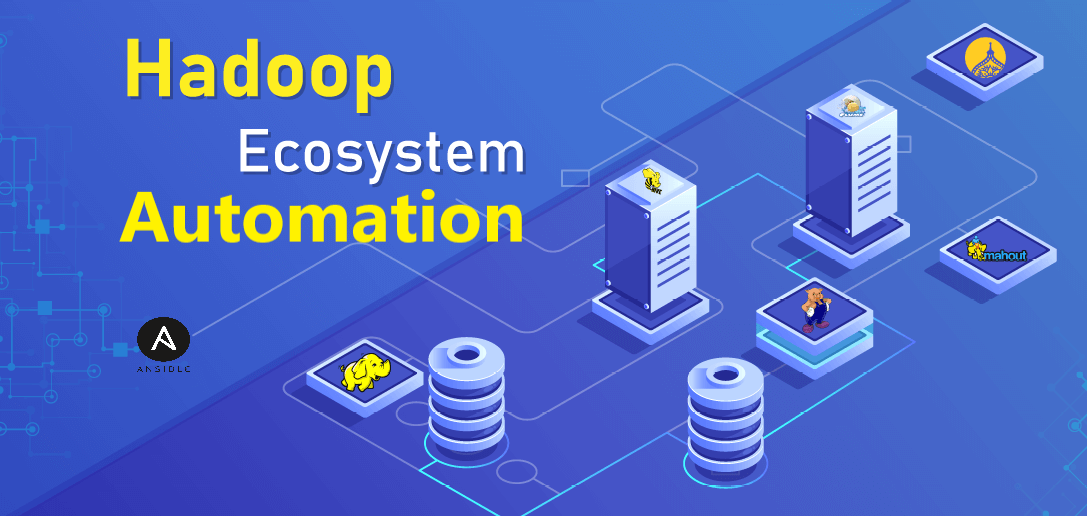
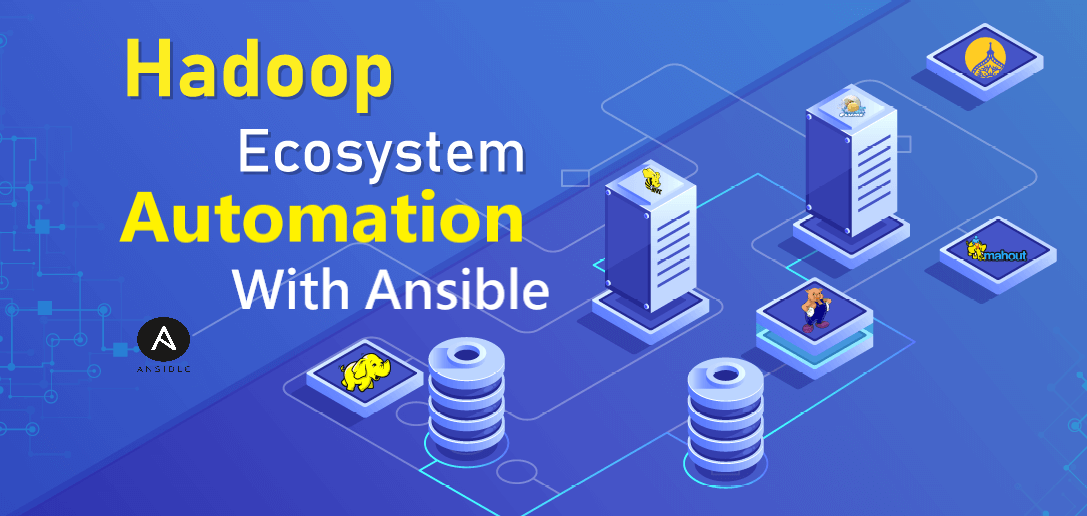
added hadoop and terraform projects

Changed region(s): [[0.2125, 0.4961, 0.5161, 0.6202]]

diff --git a/index-w.html b/index-w.html
@@ -99,7 +99,8 @@
       title="yellow"
     />
   </head>
-  <body class="white-vertion black-bg">
+  <!-- <body class="dark-vertion black-bg"> -->
+  <body class="white-vertion black-bg"></body>
     <!-- Start Loader -->
     <div class="section-loader">
       <div class="loader">
@@ -1303,11 +1304,11 @@
                     <img src="assets/images/projects/Frlnc/Frlnc_Hadoop_Automation.png" alt="HadoopAutomation" />
                     <figcaption class="fig-caption">
                       <i class="fa fa-search"></i>
-                      <h5 class="title">Hadoop Automation</h5>
+                      <h5 class="title">Hadoop Automation With Anisble</h5>
                       <span class="sub-title">Installation and Configuration</span>
                       <a
                         data-fancybox
-                        data-src="#mh"
+                        data-src="#mh_hadoopansible"
                       ></a>
                     </figcaption>
                   </figure>
@@ -1396,6 +1397,20 @@
                     </figcaption>
                   </figure>
                 </div>
+                <div class="grid-item col-md-4 col-sm-6 col-xs-12 infra_tag">
+                  <figure>
+                    <img src="assets/images/projects/IaC/TC_TerraformAWS_Front.jpg" alt="Terraform" />
+                    <figcaption class="fig-caption">
+                      <i class="fa fa-search"></i>
+                      <h5 class="title">Automate Infra Provisioning</h5>
+                      <span class="sub-title">AWS Cloud</span>
+                      <a
+                        data-fancybox
+                        data-src="#mh_awsterraform"
+                      ></a>
+                    </figcaption>
+                  </figure>
+                </div>
               </div>
               <!-- End: .grid .project-gallery -->
             </div>
@@ -1405,28 +1420,132 @@
         </div>
         <!-- End: .row -->
       </div>
-      <!-- Default content -->
-      <div class="mh-portfolio-modal" id="mh">
+      <!-- Hadoop Ansible content -->
+      <div class="mh-portfolio-modal" id="mh_hadoopansible">
         <div class="container">
           <div class="row mh-portfolio-modal-inner">
             <div class="col-sm-5">
-              <h2>Uploading Soon...</h2>
-              <div class="mh-about-tag">
-                <ul>
-                  <li><span>Ansible</span></li>
-                  <li><span>Zookeeper</span></li>
-                  <li><span>HDFS</span></li>
-                  <li><span>Hive</span></li>
-                  <li><span>MapReduce</span></li>
-                  <li><span>Apache Pig</span></li>
-                  <li><span>Yarn</span></li>
-                  <li><span>Spark</span></li>
-                </ul>
-              </div>
+              <h2>Automating Hadoop Installation and Configuration with Ansible</h2>
+              <h6 style="color: red;">
+                Problem Statement
+              </h6>
+              <p>
+                The manual installation and configuration of Hadoop across multiple nodes is a time-consuming and error-prone process. It involves numerous steps, dependencies, and configurations that can lead to inconsistencies and potential security vulnerabilities.
+              </p>
+              <p>
+                Additionally, managing the installation across various environments and clusters poses a significant challenge for the data engineering team.
+              </p>
+              
+              <h6 style="color: #0bceaf;">
+                Results
+              </h6>
+              <p>
+                > Improved Efficiency&emsp;> Scalability<br>
+                > Consistency and Standardization<br>
+                > Enhanced Security<br>
+                > Faster Troubleshooting and Maintenance
+              </p>
             </div>
+            <div class="col-sm-7">
+              <div class="mh-portfolio-modal-img">
+                <h6 style="color: #0bceaf;">Tech </h6>
+                <div class="mh-about-tag">
+                  <ul>
+                    <li><span>Ansible</span></li>
+                    <li><span>Zookeeper</span></li>
+                    <li><span>HDFS</span></li>
+                    <li><span>Hive</span></li>
+                    <li><span>MapReduce</span></li>
+                    <li><span>Apache Pig</span></li>
+                    <li><span>Yarn</span></li>
+                    <li><span>Spark</span></li>
+                    <li><span>Java</span></li>
+                    <li><span>Linux/Unix</span></li>
+                  </ul>
+                </div>
+                <h6 style="color: green;">
+                  Solution
+                </h6>
+                <p>
+                  To address the challenges of Hadoop installation and configuration, i propose an automated approach using Ansible. Ansible provides a powerful and flexible automation framework that enables us to define Hadoop's infrastructure as code. Through Ansible playbooks and roles, we can create a repeatable and consistent process for deploying and configuring Hadoop across the entire cluster.
+                </p>
+                <p>
+                  The Ansible playbook will handle the installation of dependencies, such as Java, and set up the necessary configurations for Hadoop's various components, including HDFS, YARN, and MapReduce. With Ansible's declarative syntax and idempotent nature, we can ensure that the installation process is reliable and repeatable.
+                </p>
+                <h6 style="color: #0bceaf;">
+                  POC Code <i class='fa fa-code fa-1x'></i>
+                <p></p>
+                <a href="https://github.com/imraviarora/hadoop-ansible-fully-automate-v1.git" target="_blank">
+                  <i class='fa fa-github-square fa-4x fa-flip-horizontal'></i>
+                </a>
+              </div>
           </div>
         </div>
       </div>
+      <!-- Terraform AWS content -->
+      <div class="mh-portfolio-modal" id="mh_awsterraform">
+        <div class="container">
+          <div class="row mh-portfolio-modal-inner">
+            <div class="col-sm-5">
+              <h2>Provision AWS infrastructure using Terraform</h2>
+              <h6 style="color: red;">
+                Problem Statement
+              </h6>
+              <p>
+                A client was facing challenges with manually provisioning and managing AWS cloud resources. The process was time-consuming, error-prone, and lacked consistency. It led to delays in project deployments, difficulty in maintaining infrastructure, and increased operational costs.
+              </p>             
+              <h6 style="color: #0bceaf;">
+                Results
+              </h6>
+              <p>
+                With Terraform, we achieved faster and more consistent infrastructure provisioning. It significantly reduced the risk of human errors and increased the efficiency of our development and deployment processes.
+              </p>
+              <p>
+                The ability to manage infrastructure as code has improved collaboration between teams and enhanced our disaster recovery capabilities. Additionally, the cost of managing infrastructure decreased as we optimized resource allocation based on actual usage patterns. The project has proven to be a successful step towards a scalable and reliable cloud environment on AWS.
+              </p>
+            </div>
+            <div class="col-sm-7">
+              <div class="mh-portfolio-modal-img">
+                <h6 style="color: #0bceaf;">Tech </h6>
+                <div class="mh-about-tag">
+                  <ul>
+                    <li><span>EC2</span></li>
+                    <li><span>Route53</span></li>
+                    <li><span>Elasticsearch</span></li>
+                    <li><span>ALB</span></li>
+                    <li><span>IAM</span></li>
+                    <li><span>RDS</span></li>
+                    <li><span>Security Group</span></li>
+                    <li><span>ASG</span></li>
+                    <li><span>Apache</span></li>
+                    <li><span>S3</span></li>
+                    <li><span>Jenkins</span></li>
+                    <li><span>Terraform</span></li>
+                  </ul>
+                </div>
+                <h6 style="color: green;">
+                  Solution
+                </h6>
+                <p>
+                  To address these issues, we implemented Terraform, an infrastructure-as-code tool, to automate the provisioning of AWS cloud resources. Terraform allows us to define our infrastructure in code using declarative configuration files. This enables us to version control and maintain the infrastructure as part of our codebase.
+                </p>
+                <p>
+                  Implementations:<br>
+                  >&emsp;Wrote custom modules tf files for asg, oem softwares<br>
+                  >&emsp;Dynamic blocking and data sources are used to reduce code complexity<br>
+                  >&emsp;Workspaces are used to work within multiple environments<br>
+                  >&emsp;DynamoDB table used for resource locking mechanism
+                </p>
+                <h6 style="color: #0bceaf;">
+                  POC Code <i class='fa fa-code fa-1x'></i>
+                </h6>
+                <a href="https://github.com/imraviarora/terraform-aws-master.git" target="_blank">
+                  <i class='fa fa-github-square fa-4x fa-flip-horizontal'></i>
+                </a>
+                <cite><br>The repository may contain test feature files.</cite>
+              </div>
+          </div>
+        </div>
       </div>
       <div class="mh-portfolio-modal" id="mh_teamcity2azure">
         <div class="container">

diff --git a/index.html b/index.html
@@ -100,6 +100,7 @@
     />
   </head>
   <body class="dark-vertion black-bg">
+  <!-- <body class="white-vertion black-bg"></body> -->
     <!-- Start Loader -->
     <div class="section-loader">
       <div class="loader">
@@ -1303,11 +1304,11 @@
                     <img src="assets/images/projects/Frlnc/Frlnc_Hadoop_Automation.png" alt="HadoopAutomation" />
                     <figcaption class="fig-caption">
                       <i class="fa fa-search"></i>
-                      <h5 class="title">Hadoop Automation</h5>
+                      <h5 class="title">Hadoop Automation With Anisble</h5>
                       <span class="sub-title">Installation and Configuration</span>
                       <a
                         data-fancybox
-                        data-src="#mh"
+                        data-src="#mh_hadoopansible"
                       ></a>
                     </figcaption>
                   </figure>
@@ -1396,6 +1397,20 @@
                     </figcaption>
                   </figure>
                 </div>
+                <div class="grid-item col-md-4 col-sm-6 col-xs-12 infra_tag">
+                  <figure>
+                    <img src="assets/images/projects/IaC/TC_TerraformAWS_Front.jpg" alt="Terraform" />
+                    <figcaption class="fig-caption">
+                      <i class="fa fa-search"></i>
+                      <h5 class="title">Automate Infra Provisioning</h5>
+                      <span class="sub-title">AWS Cloud</span>
+                      <a
+                        data-fancybox
+                        data-src="#mh_awsterraform"
+                      ></a>
+                    </figcaption>
+                  </figure>
+                </div>
               </div>
               <!-- End: .grid .project-gallery -->
             </div>
@@ -1405,28 +1420,132 @@
         </div>
         <!-- End: .row -->
       </div>
-      <!-- Default content -->
-      <div class="mh-portfolio-modal" id="mh">
+      <!-- Hadoop Ansible content -->
+      <div class="mh-portfolio-modal" id="mh_hadoopansible">
         <div class="container">
           <div class="row mh-portfolio-modal-inner">
             <div class="col-sm-5">
-              <h2>Uploading Soon...</h2>
-              <div class="mh-about-tag">
-                <ul>
-                  <li><span>Ansible</span></li>
-                  <li><span>Zookeeper</span></li>
-                  <li><span>HDFS</span></li>
-                  <li><span>Hive</span></li>
-                  <li><span>MapReduce</span></li>
-                  <li><span>Apache Pig</span></li>
-                  <li><span>Yarn</span></li>
-                  <li><span>Spark</span></li>
-                </ul>
-              </div>
+              <h2>Automating Hadoop Installation and Configuration with Ansible</h2>
+              <h6 style="color: red;">
+                Problem Statement
+              </h6>
+              <p>
+                The manual installation and configuration of Hadoop across multiple nodes is a time-consuming and error-prone process. It involves numerous steps, dependencies, and configurations that can lead to inconsistencies and potential security vulnerabilities.
+              </p>
+              <p>
+                Additionally, managing the installation across various environments and clusters poses a significant challenge for the data engineering team.
+              </p>
+              
+              <h6 style="color: #0bceaf;">
+                Results
+              </h6>
+              <p>
+                > Improved Efficiency&emsp;> Scalability<br>
+                > Consistency and Standardization<br>
+                > Enhanced Security<br>
+                > Faster Troubleshooting and Maintenance
+              </p>
             </div>
+            <div class="col-sm-7">
+              <div class="mh-portfolio-modal-img">
+                <h6 style="color: #0bceaf;">Tech </h6>
+                <div class="mh-about-tag">
+                  <ul>
+                    <li><span>Ansible</span></li>
+                    <li><span>Zookeeper</span></li>
+                    <li><span>HDFS</span></li>
+                    <li><span>Hive</span></li>
+                    <li><span>MapReduce</span></li>
+                    <li><span>Apache Pig</span></li>
+                    <li><span>Yarn</span></li>
+                    <li><span>Spark</span></li>
+                    <li><span>Java</span></li>
+                    <li><span>Linux/Unix</span></li>
+                  </ul>
+                </div>
+                <h6 style="color: green;">
+                  Solution
+                </h6>
+                <p>
+                  To address the challenges of Hadoop installation and configuration, i propose an automated approach using Ansible. Ansible provides a powerful and flexible automation framework that enables us to define Hadoop's infrastructure as code. Through Ansible playbooks and roles, we can create a repeatable and consistent process for deploying and configuring Hadoop across the entire cluster.
+                </p>
+                <p>
+                  The Ansible playbook will handle the installation of dependencies, such as Java, and set up the necessary configurations for Hadoop's various components, including HDFS, YARN, and MapReduce. With Ansible's declarative syntax and idempotent nature, we can ensure that the installation process is reliable and repeatable.
+                </p>
+                <h6 style="color: #0bceaf;">
+                  POC Code <i class='fa fa-code fa-1x'></i>
+                <p></p>
+                <a href="https://github.com/imraviarora/hadoop-ansible-fully-automate-v1.git" target="_blank">
+                  <i class='fa fa-github-square fa-4x fa-flip-horizontal'></i>
+                </a>
+              </div>
           </div>
         </div>
       </div>
+      <!-- Terraform AWS content -->
+      <div class="mh-portfolio-modal" id="mh_awsterraform">
+        <div class="container">
+          <div class="row mh-portfolio-modal-inner">
+            <div class="col-sm-5">
+              <h2>Provision AWS infrastructure using Terraform</h2>
+              <h6 style="color: red;">
+                Problem Statement
+              </h6>
+              <p>
+                A client was facing challenges with manually provisioning and managing AWS cloud resources. The process was time-consuming, error-prone, and lacked consistency. It led to delays in project deployments, difficulty in maintaining infrastructure, and increased operational costs.
+              </p>             
+              <h6 style="color: #0bceaf;">
+                Results
+              </h6>
+              <p>
+                With Terraform, we achieved faster and more consistent infrastructure provisioning. It significantly reduced the risk of human errors and increased the efficiency of our development and deployment processes.
+              </p>
+              <p>
+                The ability to manage infrastructure as code has improved collaboration between teams and enhanced our disaster recovery capabilities. Additionally, the cost of managing infrastructure decreased as we optimized resource allocation based on actual usage patterns. The project has proven to be a successful step towards a scalable and reliable cloud environment on AWS.
+              </p>
+            </div>
+            <div class="col-sm-7">
+              <div class="mh-portfolio-modal-img">
+                <h6 style="color: #0bceaf;">Tech </h6>
+                <div class="mh-about-tag">
+                  <ul>
+                    <li><span>EC2</span></li>
+                    <li><span>Route53</span></li>
+                    <li><span>Elasticsearch</span></li>
+                    <li><span>ALB</span></li>
+                    <li><span>IAM</span></li>
+                    <li><span>RDS</span></li>
+                    <li><span>Security Group</span></li>
+                    <li><span>ASG</span></li>
+                    <li><span>Apache</span></li>
+                    <li><span>S3</span></li>
+                    <li><span>Jenkins</span></li>
+                    <li><span>Terraform</span></li>
+                  </ul>
+                </div>
+                <h6 style="color: green;">
+                  Solution
+                </h6>
+                <p>
+                  To address these issues, we implemented Terraform, an infrastructure-as-code tool, to automate the provisioning of AWS cloud resources. Terraform allows us to define our infrastructure in code using declarative configuration files. This enables us to version control and maintain the infrastructure as part of our codebase.
+                </p>
+                <p>
+                  Implementations:<br>
+                  >&emsp;Wrote custom modules tf files for asg, oem softwares<br>
+                  >&emsp;Dynamic blocking and data sources are used to reduce code complexity<br>
+                  >&emsp;Workspaces are used to work within multiple environments<br>
+                  >&emsp;DynamoDB table used for resource locking mechanism
+                </p>
+                <h6 style="color: #0bceaf;">
+                  POC Code <i class='fa fa-code fa-1x'></i>
+                </h6>
+                <a href="https://github.com/imraviarora/terraform-aws-master.git" target="_blank">
+                  <i class='fa fa-github-square fa-4x fa-flip-horizontal'></i>
+                </a>
+                <cite><br>The repository may contain test feature files.</cite>
+              </div>
+          </div>
+        </div>
       </div>
       <div class="mh-portfolio-modal" id="mh_teamcity2azure">
         <div class="container">
